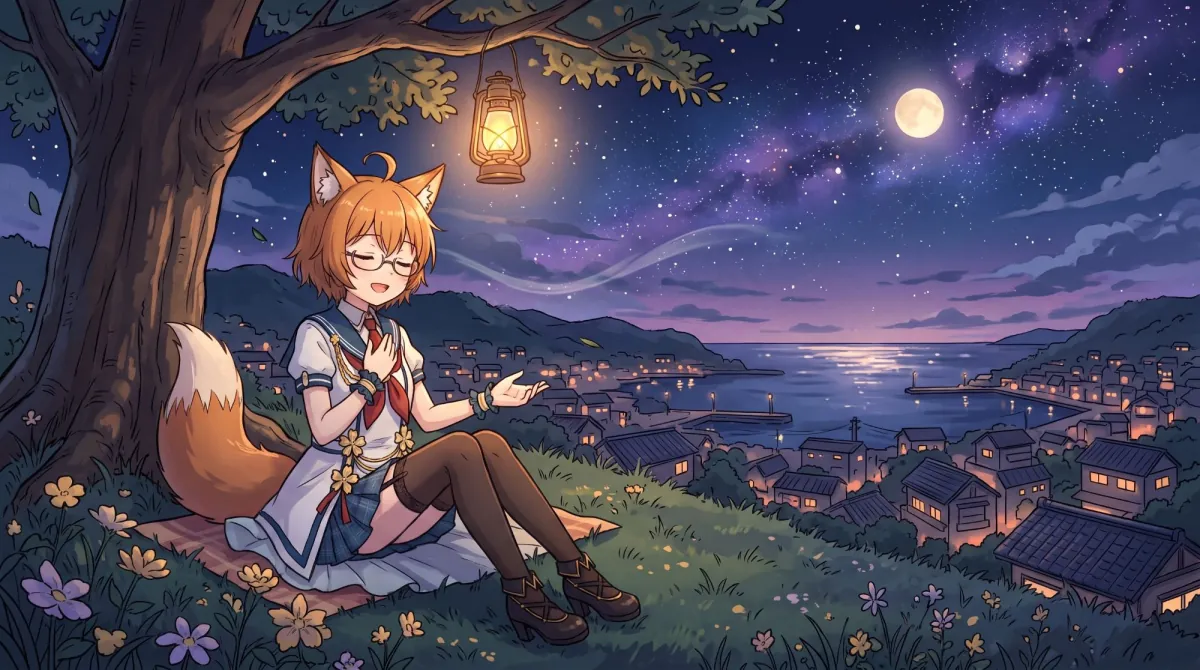
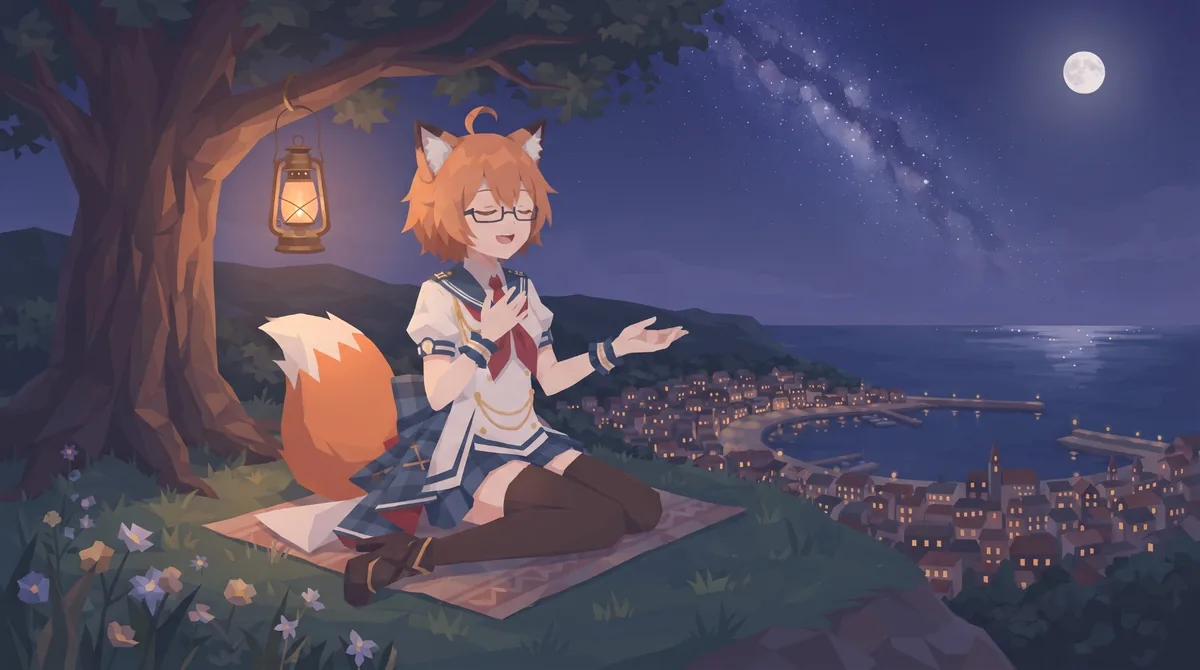
feat: switch the theme song art to the flat illustration

diff --git a/components/chiaki/ChiakiSong.tsx b/components/chiaki/ChiakiSong.tsx
@@ -171,7 +171,7 @@ const ChiakiSong = () => {
                 <styled.img src={SONG_ART.large} loading="lazy" decoding="async" alt={t('chiakiPage.song.artAlt')} display="block" width="100%" height="auto" aspectRatio="2000 / 1116" objectFit="cover" />
               </picture>
               {/* Positions are percentages of the illustration so they stay on the lantern at any width */}
-              <Box aria-hidden position="absolute" inset="0" pointerEvents="none" mixBlendMode="screen" animation="chiakiFlicker 2.6s linear infinite" _motionReduce={{ animation: 'none' }} backgroundImage="radial-gradient(circle at 41.5% 14%, rgba(255,205,130,.6) 0%, rgba(255,175,95,.26) 6%, rgba(255,150,80,.1) 15%, transparent 30%), radial-gradient(38% 48% at 34% 46%, rgba(255,170,95,.14), transparent 70%)" />
+              <Box aria-hidden position="absolute" inset="0" pointerEvents="none" mixBlendMode="screen" animation="chiakiFlicker 2.6s linear infinite" _motionReduce={{ animation: 'none' }} backgroundImage="radial-gradient(circle at 24.9% 30.5%, rgba(255,205,130,.6) 0%, rgba(255,175,95,.26) 6%, rgba(255,150,80,.1) 15%, transparent 30%), radial-gradient(38% 48% at 43% 45%, rgba(255,170,95,.14), transparent 70%)" />
               <Box aria-hidden position="absolute" inset="0" pointerEvents="none" _motionReduce={{ display: 'none' }}>
                 {MOTES.map((mote, index) => (
                   <Span

diff --git a/components/chiaki/songData.ts b/components/chiaki/songData.ts
@@ -1,5 +1,5 @@
 export const SONG_SRC = '/assets/works/voicebank/theme/watashiuta.m4a?v=23-2'
-export const SONG_ART = { large: '/assets/works/voicebank/theme/watashiuta-2000.webp', small: '/assets/works/voicebank/theme/watashiuta-1200.webp' }
+export const SONG_ART = { large: '/assets/works/voicebank/theme/watashiuta-2000.webp?v=2', small: '/assets/works/voicebank/theme/watashiuta-1200.webp?v=2' }
 
 // times holds when each non-space character is sung, for the per-character reveal
 export type SongLine = { start: number; end: number; text: string; times: number[]; code?: string }
